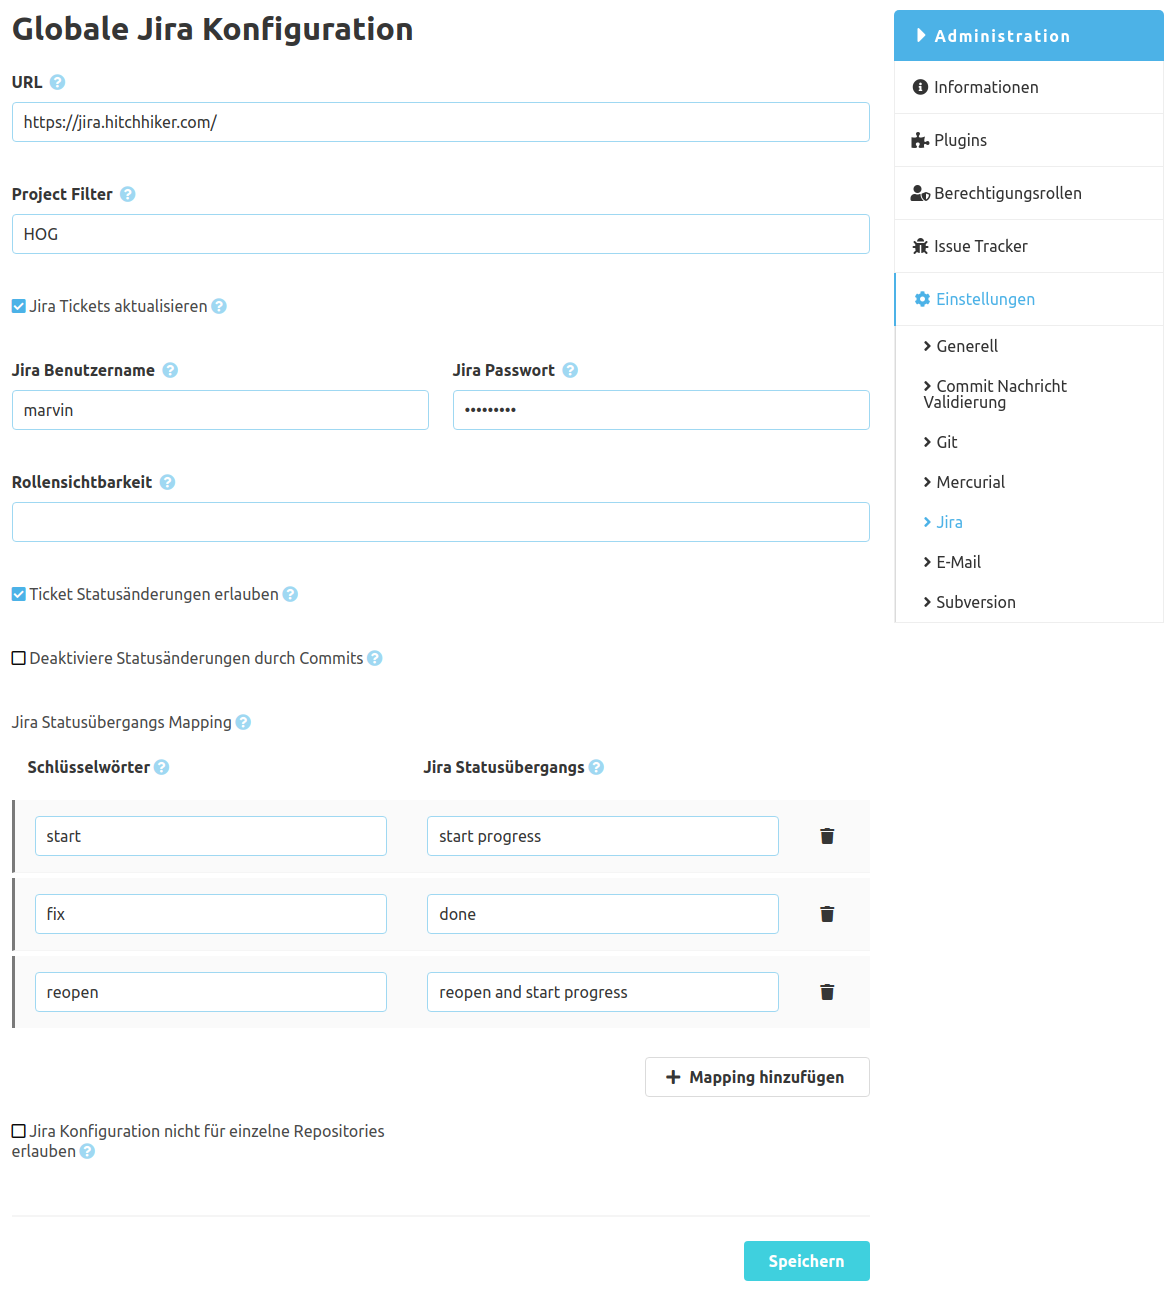
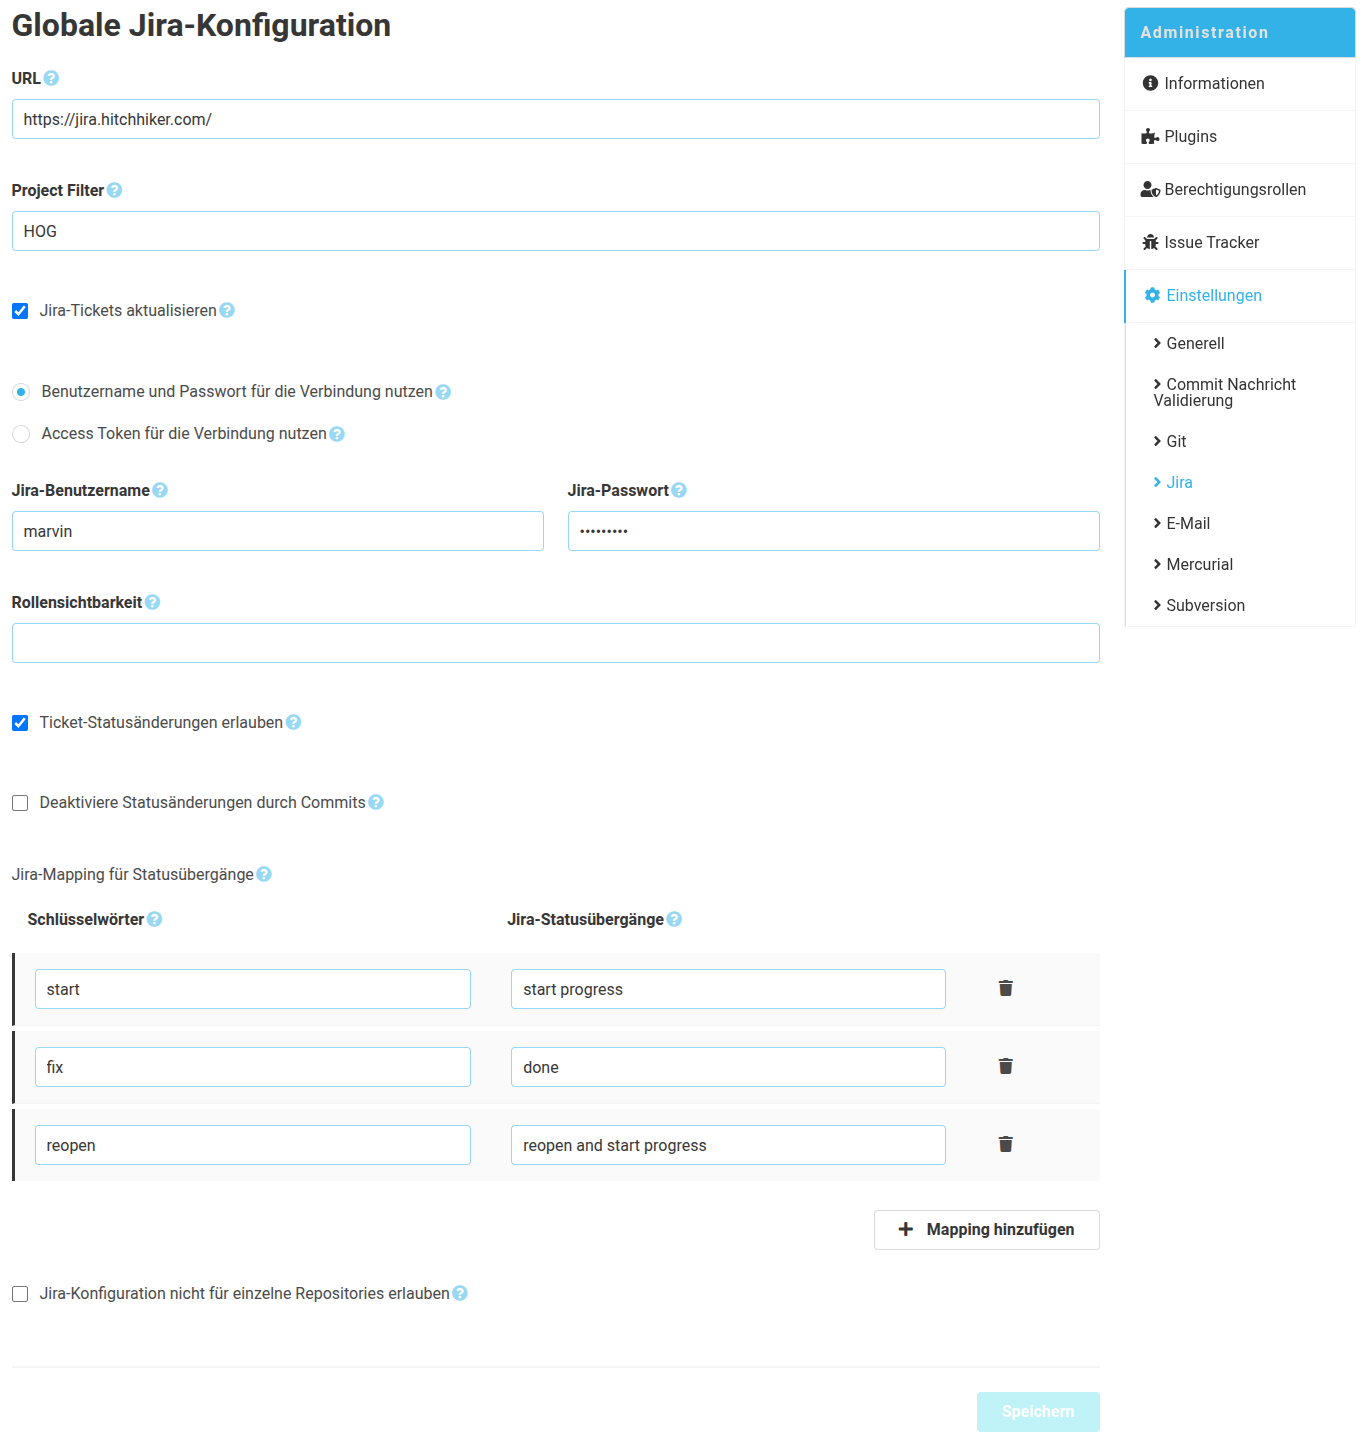
Add support for access tokens
Squash commits of branch feature/access_tokens:

- Adding API token as alternative to username/password

- Add radio buttons to select token or username/password

- Simplify

- Use Jira wording ("access token")

- Document changes

- Fix sonar issue

- Add explicit flag for access token usage

- Log change

diff --git a/src/main/js/JiraConfigurationItems.tsx b/src/main/js/JiraConfigurationItems.tsx
@@ -16,6 +16,7 @@
 
 import React from "react";
 import { Checkbox, InputField, validation } from "@scm-manager/ui-components";
+import { RadioGroup } from "@scm-manager/ui-forms";
 import { withTranslation, WithTranslation } from "react-i18next";
 import { JiraConfiguration } from "./types";
 import AutoCloseWordMapping from "./AutoCloseWordMapping";
@@ -36,7 +37,7 @@ class JiraConfigurationItems extends React.Component<Props, State> {
     super(props);
     this.state = {
       ...props.initialConfiguration,
-      urlValid: true
+      urlValid: true,
     };
   }
 
@@ -45,9 +46,9 @@ class JiraConfigurationItems extends React.Component<Props, State> {
     this.setState(
       {
         url: value,
-        urlValid
+        urlValid,
       },
-      this.configurationChangedCallback
+      this.configurationChangedCallback,
     );
   };
 
@@ -58,9 +59,9 @@ class JiraConfigurationItems extends React.Component<Props, State> {
     this.setState(
       // @ts-ignore hard to type
       {
-        [name]: value
+        [name]: value,
       },
-      this.configurationChangedCallback
+      this.configurationChangedCallback,
     );
   };
 
@@ -69,12 +70,7 @@ class JiraConfigurationItems extends React.Component<Props, State> {
   };
 
   configurationChangedCallback = () => {
-    this.props.onConfigurationChange(
-      {
-        ...this.state
-      },
-      this.isValid()
-    );
+    this.props.onConfigurationChange(this.state, this.isValid());
   };
 
   isValid = () => {
@@ -120,27 +116,62 @@ class JiraConfigurationItems extends React.Component<Props, State> {
         </div>
         {this.state.updateIssues ? (
           <>
-            <div className="column is-half">
-              <InputField
-                name="username"
-                label={t("scm-jira-plugin.form.username")}
-                helpText={t("scm-jira-plugin.form.usernameHelp")}
-                disabled={readOnly || !this.state.updateIssues}
-                value={this.state.username}
-                onChange={this.valueChangeHandler}
+            <div className="column is-full">
+              <RadioGroup
+                name="useAccessToken"
+                options={[
+                  {
+                    value: "usernamePassword",
+                    label: t("scm-jira-plugin.form.useUsernamePassword"),
+                    helpText: t("scm-jira-plugin.form.useUsernamePasswordHelp"),
+                  },
+                  {
+                    value: "accessToken",
+                    label: t("scm-jira-plugin.form.useAccessToken"),
+                    helpText: t("scm-jira-plugin.form.useAccessTokenHelp"),
+                  },
+                ]}
+                value={this.state.useAccessToken ? "accessToken" : "usernamePassword"}
+                onValueChange={(value) => this.valueChangeHandler(value === "accessToken", "useAccessToken")}
               />
             </div>
-            <div className="column is-half">
-              <InputField
-                name="password"
-                label={t("scm-jira-plugin.form.password")}
-                helpText={t("scm-jira-plugin.form.passwordHelp")}
-                disabled={readOnly || !this.state.updateIssues}
-                value={this.state.password}
-                type="password"
-                onChange={this.valueChangeHandler}
-              />
-            </div>
+            {this.state.useAccessToken ? (
+              <div className="column is-full">
+                <InputField
+                  name="accessToken"
+                  label={t("scm-jira-plugin.form.accessToken")}
+                  helpText={t("scm-jira-plugin.form.accessTokenHelp")}
+                  disabled={readOnly || !this.state.updateIssues}
+                  value={this.state.accessToken}
+                  type="password"
+                  onChange={this.valueChangeHandler}
+                />
+              </div>
+            ) : (
+              <>
+                <div className="column is-half">
+                  <InputField
+                    name="username"
+                    label={t("scm-jira-plugin.form.username")}
+                    helpText={t("scm-jira-plugin.form.usernameHelp")}
+                    disabled={readOnly || !this.state.updateIssues}
+                    value={this.state.username}
+                    onChange={this.valueChangeHandler}
+                  />
+                </div>
+                <div className="column is-half">
+                  <InputField
+                    name="password"
+                    label={t("scm-jira-plugin.form.password")}
+                    helpText={t("scm-jira-plugin.form.passwordHelp")}
+                    disabled={readOnly || !this.state.updateIssues}
+                    value={this.state.password}
+                    type="password"
+                    onChange={this.valueChangeHandler}
+                  />
+                </div>
+              </>
+            )}
             <div className="column is-full">
               <InputField
                 name="roleLevel"

diff --git a/src/main/js/types.ts b/src/main/js/types.ts
@@ -22,6 +22,8 @@ export type JiraConfiguration = HalRepresentation & {
   updateIssues: boolean;
   username: string;
   password: string;
+  accessToken: string;
+  useAccessToken: boolean;
   roleLevel: string;
   autoClose: boolean;
   disableStateChangeByCommit: boolean;

diff --git a/src/main/java/sonia/scm/jira/rest/RestApi.java b/src/main/java/sonia/scm/jira/rest/RestApi.java
@@ -17,10 +17,12 @@
 package sonia.scm.jira.rest;
 
 import lombok.extern.slf4j.Slf4j;
+import org.apache.commons.lang.StringUtils;
 import sonia.scm.jira.JiraException;
 import sonia.scm.jira.config.JiraConfiguration;
 import sonia.scm.net.ahc.AdvancedHttpClient;
 import sonia.scm.net.ahc.AdvancedHttpResponse;
+import sonia.scm.net.ahc.BaseHttpRequest;
 import sonia.scm.util.HttpUtil;
 
 import java.io.IOException;
@@ -49,9 +51,9 @@ public class RestApi {
    */
   public void addComment(String issueId, RestComment comment) throws IOException {
     log.info("add comment to issue {}", issueId);
-    AdvancedHttpResponse response = client.post(commentUrl(issueId))
+    AdvancedHttpResponse response = authenticate(client.post(commentUrl(issueId))
       .spanKind("Jira")
-      .basicAuth(configuration.getUsername(), configuration.getPassword())
+    )
       .jsonContent(comment)
       .request();
 
@@ -63,15 +65,15 @@ public class RestApi {
   }
 
   /**
-   * @param issueId Usually an abbreviation and a number; e.g. <tt>RTT-1</tt>
+   * @param issueId      Usually an abbreviation and a number; e.g. <tt>RTT-1</tt>
    * @param transitionId <tt>Done</tt>, <tt>in progress</tt>, etc.
    * @throws IOException In case of unexpected request failures.
    */
   public void changeState(String issueId, String transitionId) throws IOException {
     log.info("attempting to change state of issue {}", issueId);
-    AdvancedHttpResponse response = client.post(transitionsUrl(issueId))
+    AdvancedHttpResponse response = authenticate(client.post(transitionsUrl(issueId))
       .spanKind("Jira")
-      .basicAuth(configuration.getUsername(), configuration.getPassword())
+    )
       .jsonContent(new RestDoTransition(transitionId))
       .request();
 
@@ -88,9 +90,9 @@ public class RestApi {
    */
   public Collection<RestTransition> getTransitions(String issueId) throws IOException {
     log.debug("get transitions for issue {}", issueId);
-    AdvancedHttpResponse response = client.get(transitionsUrl(issueId))
+    AdvancedHttpResponse response = authenticate(client.get(transitionsUrl(issueId))
       .spanKind("Jira")
-      .basicAuth(configuration.getUsername(), configuration.getPassword())
+    )
       .request();
 
     if (!response.isSuccessful()) {
@@ -99,6 +101,16 @@ public class RestApi {
 
     return response.contentFromJson(RestTransitions.class)
       .getTransitions();
+  }
+
+  private <R extends BaseHttpRequest<?>> R authenticate(R request) {
+    if (configuration.isUseAccessToken()) {
+      log.trace("Using access token for Jira connection");
+      return (R) request.header("Authorization", "Bearer " + configuration.getAccessToken());
+    } else {
+      log.trace("Using basic auth for Jira connection");
+      return (R) request.basicAuth(configuration.getUsername(), configuration.getPassword());
+    }
   }
 
   private String createBaseUrl(JiraConfiguration configuration) {

diff --git a/src/main/java/sonia/scm/jira/config/JiraConfiguration.java b/src/main/java/sonia/scm/jira/config/JiraConfiguration.java
@@ -65,6 +65,14 @@ public class JiraConfiguration implements Validateable {
   @XmlJavaTypeAdapter(XmlEncryptionAdapter.class)
   private String password;
 
+  /** connection access token */
+  @XmlJavaTypeAdapter(XmlEncryptionAdapter.class)
+  private String accessToken;
+
+  /** flag whether to use the access token or username/password */
+  @XmlElement(name = "use-access-token")
+  private boolean useAccessToken;
+
   /** comment role level */
   @XmlElement(name = "role-level")
   private String roleLevel;

diff --git a/src/main/java/sonia/scm/jira/config/JiraConfigurationDto.java b/src/main/java/sonia/scm/jira/config/JiraConfigurationDto.java
@@ -33,6 +33,8 @@ public class JiraConfigurationDto extends HalRepresentation {
   private boolean updateIssues;
   private String username;
   private String password;
+  private String accessToken;
+  private boolean useAccessToken;
   private String roleLevel;
 
   private boolean autoClose;

diff --git a/docs/de/configuration/index.md b/docs/de/configuration/index.md
@@ -14,6 +14,7 @@ Anschließend lässt sich konfigurieren, in welcher Form Jira-Tickets verändert
 
 #### Kommentare erzeugen
 Um Kommentare in Jira zu erzeugen, werden Zugangsdaten benötigt, welche einem technischen Jira-Benutzer gehören sollten.
+Hierfür kann entweder ein Jira-Benutzername und ein Passwort oder ein Access Token verwendet werden.
 Dieser Benutzer benötigt zudem ausreichende Berechtigungen, um Kommentare an existierenden Tickets zu erstellen.
 
 Die Kommentare werden am Jira-Ticket erzeugt, sobald innerhalb einer Commit-Nachricht, einem Pull Request oder einem Pull Request-Kommentar die Ticket-ID erwähnt wurde.

diff --git a/docs/en/configuration/index.md b/docs/en/configuration/index.md
@@ -13,6 +13,7 @@ This can be restricted via the filter field, where a comma-separated list of Jir
 
 #### Create comments
 To create comments in Jira, credentials are required, which should belong to a technical Jira user.
+Either a Jira username and password or an access token can be used.
 This user needs sufficient permissions to create comments on existing issues.
 
 The comments are created on the Jira issue as soon as the issue id is mentioned within a commit message, a pull request,
